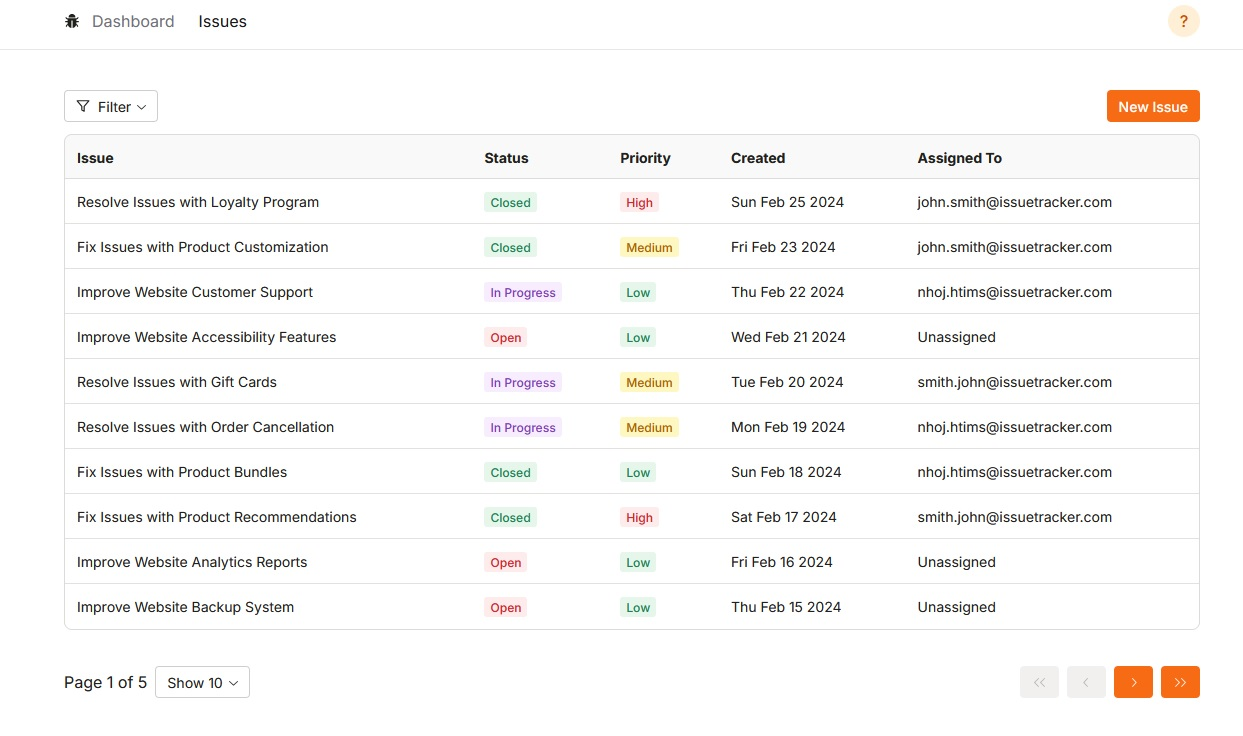
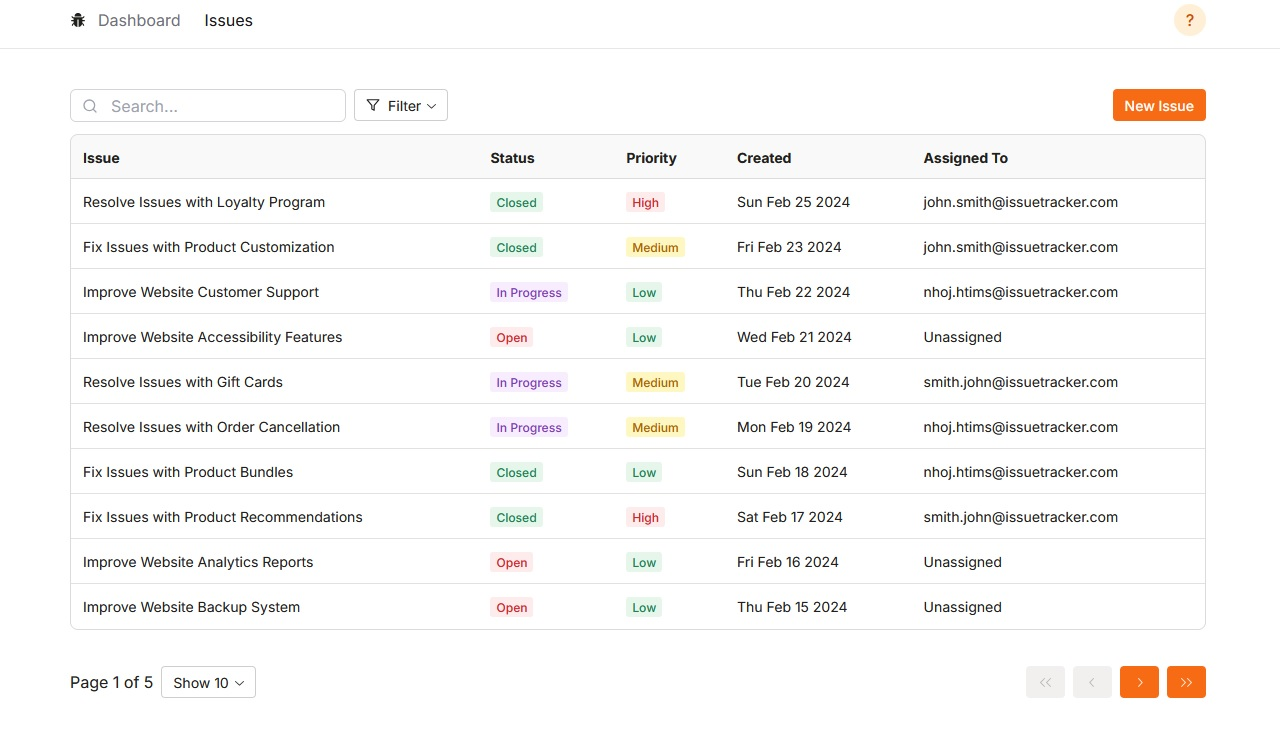
Search issues

diff --git a/frontend/app/issues/IssueSearch.tsx b/frontend/app/issues/IssueSearch.tsx
@@ -1,0 +1,52 @@
+import React, { useEffect, useState } from "react";
+
+import { FiSearch } from "react-icons/fi";
+import { usePathname, useRouter, useSearchParams } from "next/navigation";
+import { Box, Flex } from "@radix-ui/themes";
+import { useDebounce } from "use-debounce";
+
+const IssueSearch = () => {
+  const pathName = usePathname();
+  const router = useRouter();
+  const searchParams = useSearchParams();
+  const [searchValue, setSearchValue] = useState(
+    searchParams.get("search") ?? "",
+  );
+  const [debouncedSearchValue] = useDebounce(searchValue, 500); // Debounce delay of 300ms
+
+  useEffect(() => {
+    handleSearch(debouncedSearchValue);
+  }, [debouncedSearchValue]);
+
+  const handleSearch = (searchValue: string) => {
+    const params = new URLSearchParams(searchParams.toString());
+    if (searchValue) {
+      params.set("search", searchValue);
+    } else {
+      params.delete("search");
+    }
+
+    const queryString = params.toString() ? `?${params.toString()}` : "";
+    router.push(`/issues${queryString}`);
+  };
+
+  return (
+    <Flex className="relative" align="center">
+      <input
+        type="text"
+        placeholder="Search..."
+        defaultValue={searchParams.get("search") ?? ""}
+        onChange={(e) => setSearchValue(e.target.value)}
+        className="pl-10 pr-4 py-1 border border-gray-300 rounded-md focus:outline-none focus:ring-2 focus:ring-gray-100 w-full h-[33px]"
+      />
+      <Flex
+        align="center"
+        className="absolute inset-y-0 left-0 pl-3  pointer-events-none"
+      >
+        <FiSearch className="text-gray-400" />
+      </Flex>
+    </Flex>
+  );
+};
+
+export default IssueSearch;

diff --git a/frontend/app/hooks/issues/useIssues.ts b/frontend/app/hooks/issues/useIssues.ts
@@ -10,18 +10,19 @@ const useIssues = (
   ordering?: string | "",
   status?: Status | "",
   priority?: Priority | "",
+  search?: any | "",
 ) => {
   const { data, isLoading } = useQuery({
-    queryKey: ["issues", limit, offset, ordering, status, priority],
+    queryKey: ["issues", limit, offset, ordering, status, priority, search],
 
     queryFn: () =>
       apiClient.getAll({
-        params: { limit, offset, ordering, status, priority },
+        params: { limit, offset, ordering, status, priority, search },
       }),
     staleTime: ms("1m"),
     retry: 3,
   });
-  console.log("priority", priority);
+
   return { data, isLoading };
 };
 

diff --git a/frontend/app/issues/IssueActions.tsx b/frontend/app/issues/IssueActions.tsx
@@ -3,13 +3,17 @@ import { Button, Flex } from "@radix-ui/themes";
 import Link from "next/link";
 import useAuthStore from "@/app/store";
 import IssueStatusFilter from "@/app/issues/IssueStatusFilter";
+import IssueSearch from "@/app/issues/IssueSearch";
 
 const IssueActions = () => {
   const isAuthenticated = useAuthStore((s) => s.isAuthenticated);
   if (isAuthenticated) {
     return (
       <Flex justify="between">
-        <IssueStatusFilter />
+        <Flex gap="2">
+          <IssueSearch />
+          <IssueStatusFilter />
+        </Flex>
         <Button>
           <Link href="/issues/new">New Issue</Link>
         </Button>

diff --git a/frontend/app/issues/page.client.tsx b/frontend/app/issues/page.client.tsx
@@ -34,6 +34,7 @@ const IssuesPageClient = ({ searchParams }: Props) => {
     searchParams.ordering,
     status,
     priority,
+    searchParams.search,
   );
 
   if (isLoading)

diff --git a/frontend/app/issues/IssueTable.tsx b/frontend/app/issues/IssueTable.tsx
@@ -11,6 +11,7 @@ export interface IssueQuery {
   priority: Priority;
   offset: string;
   ordering: keyof Issue;
+  search: any;
 }
 
 interface Props {

diff --git a/backend/issues/views.py b/backend/issues/views.py
@@ -1,3 +1,5 @@
+from django.contrib.postgres.search import (SearchQuery, SearchRank,
+                                            SearchVector)
 from django.shortcuts import get_object_or_404
 from django_filters.rest_framework import DjangoFilterBackend
 from drf_spectacular.utils import extend_schema
@@ -9,12 +11,8 @@ from rest_framework.views import APIView
 
 from issues.filters import StatusFilter
 from issues.models import Issue
-from issues.serializers import (
-    IssueDetailSerializer,
-    IssueInputSerializer,
-    IssueOutPutSerializer,
-    IssueUpdateSerializer,
-)
+from issues.serializers import (IssueDetailSerializer, IssueInputSerializer,
+                                IssueOutPutSerializer, IssueUpdateSerializer)
 
 from .paginations import IssuePagination  # type: ignore
 from .services import create_issue, update_issue
@@ -51,11 +49,23 @@ class IssueCreateView(APIView):
 class IssueListView(ListAPIView):
     queryset = Issue.objects.select_related("user").all().order_by("-created_at")
     serializer_class = IssueOutPutSerializer
-    filter_backends = [DjangoFilterBackend, OrderingFilter, SearchFilter]
+    filter_backends = [DjangoFilterBackend, OrderingFilter]
     filterset_class = StatusFilter
     ordering_fields = ["title", "created_at", "status", "user"]
-    # max_limit = 10
     pagination_class = IssuePagination
+
+    def get_queryset(self):
+        query = self.request.query_params.get("search", None)
+
+        if query:
+            books = Issue.objects.annotate(
+                search=SearchVector("title", "description"),
+            ).filter(search=query)
+
+            return books
+
+        else:
+            return self.queryset
 
 
 @extend_schema(tags=["Issue"])

diff --git a/backend/issues/migrations/0007_issue_priority.py b/backend/issues/migrations/0007_issue_priority.py
@@ -4,7 +4,6 @@ from django.db import migrations, models
 
 
 class Migration(migrations.Migration):
-
     dependencies = [
         ("issues", "0006_issue_due_date"),
     ]

diff --git a/backend/issues/migrations/0006_issue_due_date.py b/backend/issues/migrations/0006_issue_due_date.py
@@ -4,7 +4,6 @@ from django.db import migrations, models
 
 
 class Migration(migrations.Migration):
-
     dependencies = [
         ("issues", "0005_issue_user"),
     ]
